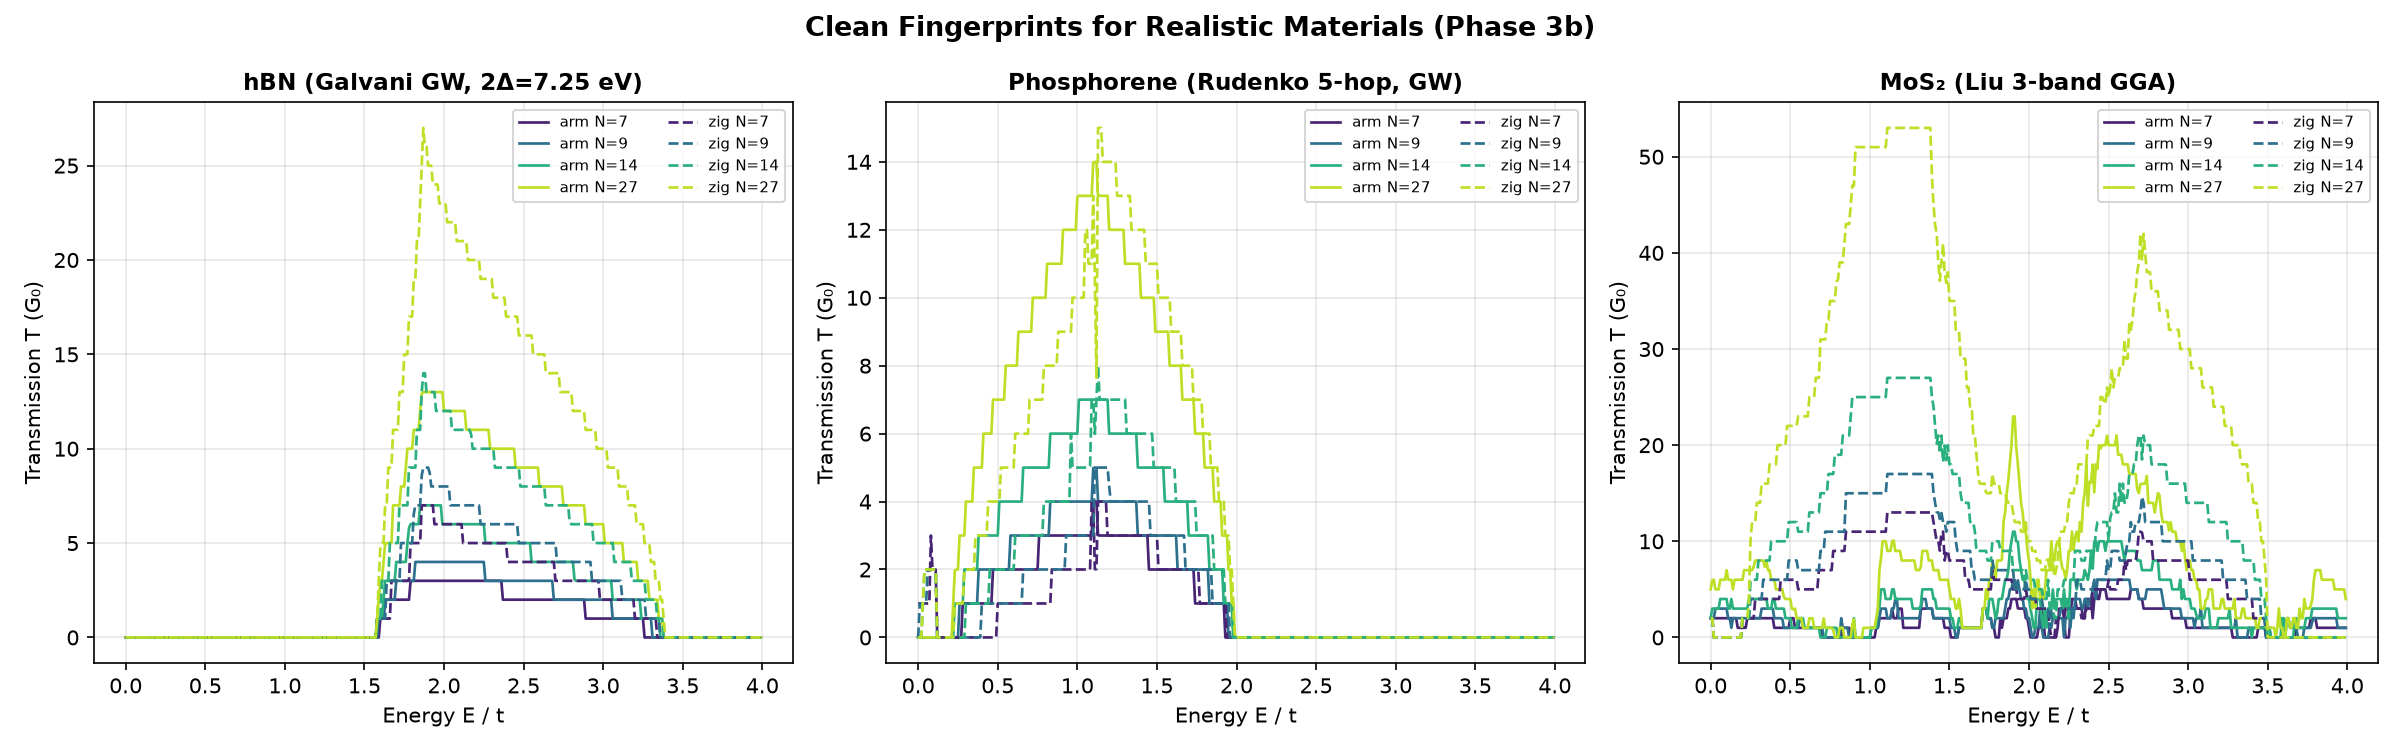
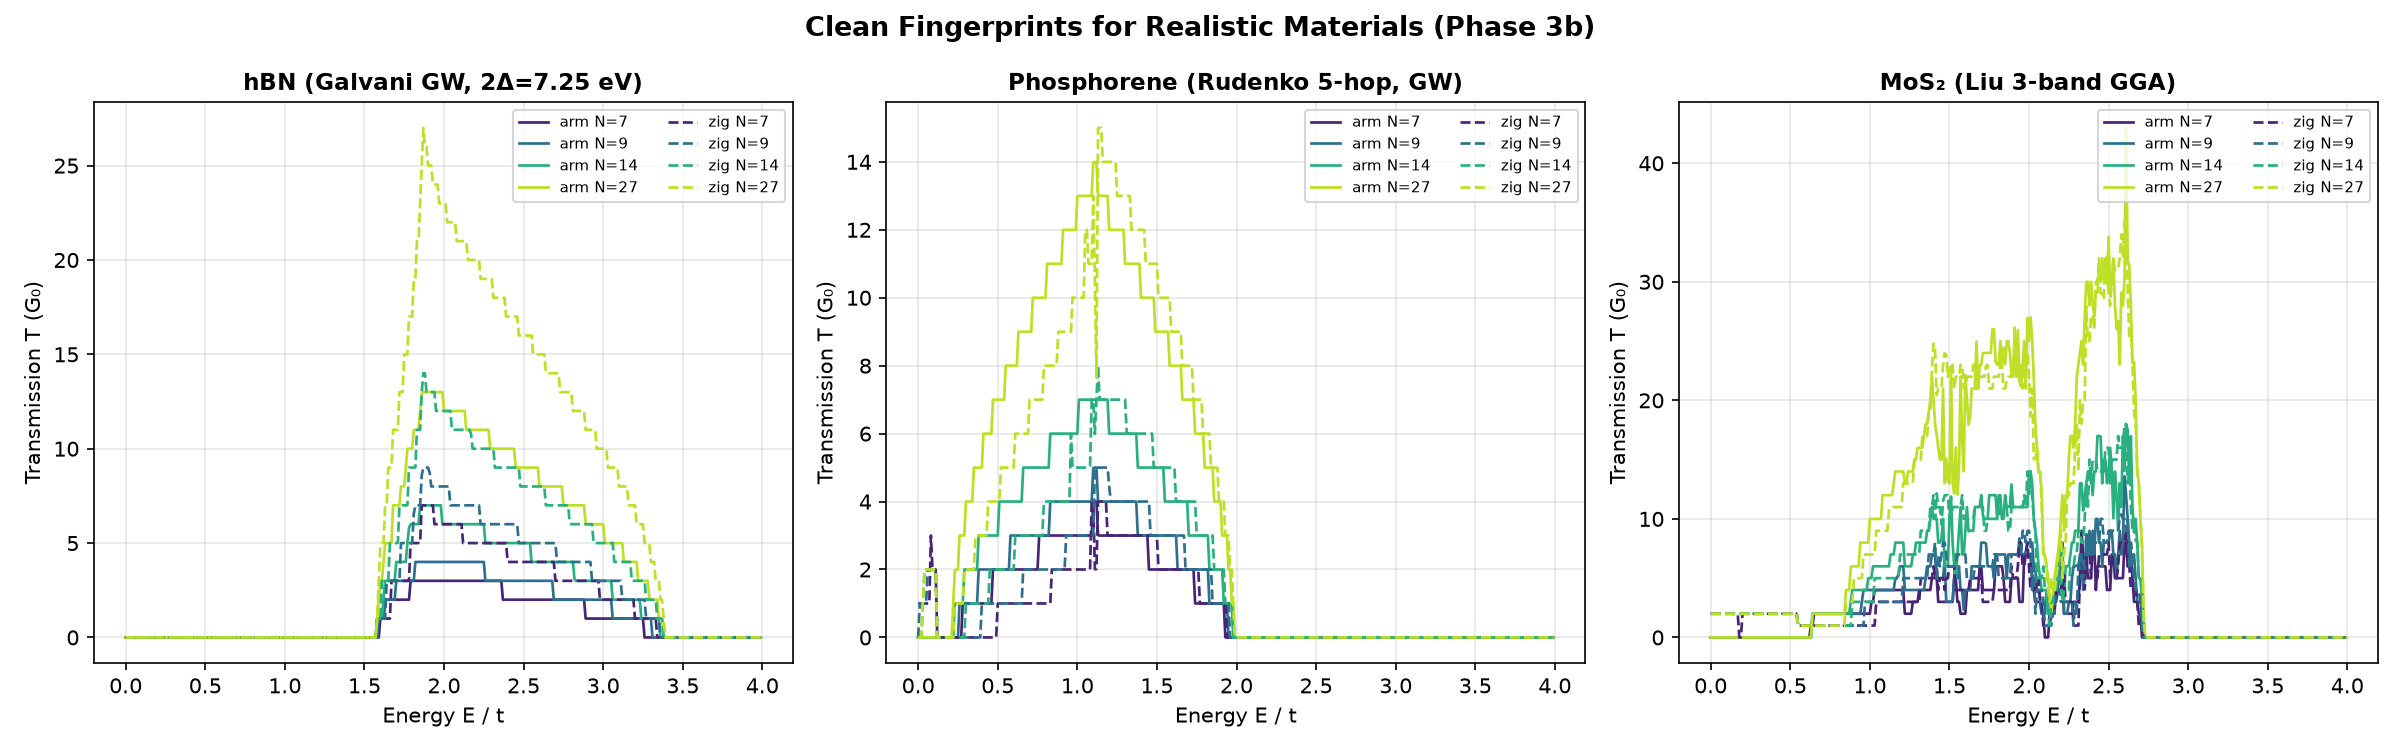
fix(tbribbon): build MoS2 ribbons from geometry; bulk-projection tests (Bug #10)

Changed region(s): [[0.6875, 0.3067, 0.9688, 0.8587]]

diff --git a/notebooks/tbribbon/lattices.py b/notebooks/tbribbon/lattices.py
@@ -149,60 +149,59 @@ def mos2_ribbon(N, edge, eps1=1.046, eps2=2.104, t0=-0.184, t1=0.401, t2=0.507, 
         [-np.sqrt(3)*t1/2 - t2/2, -np.sqrt(3)*t11/4 - t12 + np.sqrt(3)*t22/4, 3*t11/4 + t22/4]
     ], dtype=complex)
 
-    HR6 = np.array([
-        [t0, t1/2 - np.sqrt(3)*t2/2, -np.sqrt(3)*t1/2 - t2/2],
-        [-t1/2 - np.sqrt(3)*t2/2, t11/4 + 3*t22/4, -np.sqrt(3)*t11/4 - t12 + np.sqrt(3)*t22/4],
-        [np.sqrt(3)*t1/2 - t2/2, -np.sqrt(3)*t11/4 + t12 + np.sqrt(3)*t22/4, 3*t11/4 + t22/4]
-    ], dtype=complex)
+    hops = {
+        1: HR1,
+        2: HR2,
+        3: HR3,
+    }
+    RV = {
+        1: np.array([1.0, 0.0]),
+        2: np.array([0.5, S]),
+        3: np.array([-0.5, S]),
+    }
 
+    eps = 1e-5
     if edge == "zigzag":
-        # Periodic along x (period a = 1.0), N rows across y (spacing sqrt(3)/2)
-        n = 3 * N
-        H0 = np.zeros((n, n), dtype=complex)
-        H1 = np.zeros((n, n), dtype=complex)
-        pos = np.column_stack([np.zeros(N), np.arange(N) * S])
+        n_sites = N
+        period = np.array([1.0, 0.0])
+        pos = np.column_stack([np.arange(N) * 0.5, np.arange(N) * S])
         sub = np.zeros(N, dtype=int)
-
-        for i in range(N):
-            H0[3*i:3*i+3, 3*i:3*i+3] = H0_site
-            H1[3*i:3*i+3, 3*i:3*i+3] = HR1
-            if i + 1 < N:
-                H0[3*i:3*i+3, 3*(i+1):3*(i+1)+3] = HR2
-                H0[3*(i+1):3*(i+1)+3, 3*i:3*i+3] = HR2.conj().T
-                H1[3*i:3*i+3, 3*(i+1):3*(i+1)+3] = HR3
-        return RibbonHamiltonian(H0, H1, pos, sub)
-
     elif edge == "armchair":
-        # Periodic along y (period sqrt(3)), N columns across x. Each column has 2 Mo atoms (A at y=0, B at y=sqrt(3)/2).
-        n = 6 * N
-        H0 = np.zeros((n, n), dtype=complex)
-        H1 = np.zeros((n, n), dtype=complex)
+        n_sites = 2 * N
+        period = np.array([0.0, 2 * S])
         pos_list = []
         for j in range(N):
             pos_list.append([j, 0.0])
             pos_list.append([j + 0.5, S])
         pos = np.array(pos_list)
         sub = np.tile([0, 1], N)
-
-        for j in range(N):
-            H0[6*j:6*j+3, 6*j:6*j+3] = H0_site
-            H0[6*j+3:6*j+6, 6*j+3:6*j+6] = H0_site
-            H0[6*j:6*j+3, 6*j+3:6*j+6] += HR2
-            H0[6*j+3:6*j+6, 6*j:6*j+3] += HR2.conj().T
-            H1[6*j+3:6*j+6, 6*j:6*j+3] += HR3.conj().T
-            if j + 1 < N:
-                H0[6*j:6*j+3, 6*(j+1):6*(j+1)+3] += HR1
-                H0[6*(j+1):6*(j+1)+3, 6*j:6*j+3] += HR1.conj().T
-                H0[6*j+3:6*j+6, 6*(j+1)+3:6*(j+1)+6] += HR1
-                H0[6*(j+1)+3:6*(j+1)+6, 6*j+3:6*j+6] += HR1.conj().T
-                H0[6*j+3:6*j+6, 6*(j+1):6*(j+1)+3] += HR6
-                H0[6*(j+1):6*(j+1)+3, 6*j+3:6*j+6] += HR6.conj().T
-                H0[6*(j+1):6*(j+1)+3, 6*j+3:6*j+6] += HR3
-                H0[6*j+3:6*j+6, 6*(j+1):6*(j+1)+3] += HR3.conj().T
-        return RibbonHamiltonian(H0, H1, pos, sub)
-
     else:
         raise ValueError(f"edge must be armchair or zigzag, got {edge!r}")
+
+    dim = 3 * n_sites
+    H0 = np.zeros((dim, dim), dtype=complex)
+    H1 = np.zeros((dim, dim), dtype=complex)
+
+    for i in range(n_sites):
+        H0[3*i:3*i+3, 3*i:3*i+3] = H0_site
+
+    for i in range(n_sites):
+        for j in range(n_sites):
+            d0 = pos[j] - pos[i]
+            for r_idx, R in hops.items():
+                if np.linalg.norm(d0 - RV[r_idx]) < eps:
+                    H0[3*i:3*i+3, 3*j:3*j+3] += R
+                if np.linalg.norm(d0 + RV[r_idx]) < eps:
+                    H0[3*i:3*i+3, 3*j:3*j+3] += R.T
+
+            d1 = pos[j] + period - pos[i]
+            for r_idx, R in hops.items():
+                if np.linalg.norm(d1 - RV[r_idx]) < eps:
+                    H1[3*i:3*i+3, 3*j:3*j+3] += R
+                if np.linalg.norm(d1 + RV[r_idx]) < eps:
+                    H1[3*i:3*i+3, 3*j:3*j+3] += R.T
+
+    return RibbonHamiltonian(H0, H1, pos, sub)
 
 
 def triangular_ribbon(width, edge, t=1.0, onsite=0.0):

diff --git a/tests/tbribbon/test_real_materials.py b/tests/tbribbon/test_real_materials.py
@@ -2,7 +2,7 @@ import numpy as np
 import pytest
 
 from tbribbon.bands import band_edges, open_channels
-from tbribbon.lattices import hbn_ribbon, mos2_ribbon, phosphorene_ribbon
+from tbribbon.lattices import hbn_ribbon, mos2_ribbon, phosphorene_ribbon, triangular_ribbon
 from tbribbon.leads import LeadCache
 from tbribbon.materials import hamiltonian_for, make_model
 from tbribbon.transport import spectrum
@@ -91,3 +91,76 @@ def test_mos2_physics_and_channel_invariant(edge):
     assert stable.sum() >= 10, f"Too few stable points: {stable.sum()}"
     diff = np.max(np.abs(T[stable] - ch[stable]))
     assert diff < 1e-3, f"MoS2 {edge} channel mismatch: {diff}"
+
+
+S3 = np.sqrt(3)
+RV = {1: np.array([1.0, 0.0]), 2: np.array([0.5, S3 / 2]), 3: np.array([-0.5, S3 / 2])}
+
+
+def _mos2_bulk():
+    z = mos2_ribbon(2, "zigzag")                       # rows 0 and 1 carry every bulk block
+    onsite = z.H0[0:3, 0:3]
+    hops = {1: z.H1[0:3, 0:3]}
+    # take R2/R3 from the reference values, not from the ribbon (the ribbon is what is under test)
+    t0, t1, t2, t11, t12, t22 = -0.184, 0.401, 0.507, 0.218, 0.338, 0.057
+    hops[2] = np.array([[t0, t1/2 + S3*t2/2, S3*t1/2 - t2/2],
+                        [-t1/2 + S3*t2/2, t11/4 + 3*t22/4, S3*t11/4 - t12 - S3*t22/4],
+                        [-S3*t1/2 - t2/2, S3*t11/4 + t12 - S3*t22/4, 3*t11/4 + t22/4]])
+    hops[3] = np.array([[t0, -t1/2 - S3*t2/2, S3*t1/2 - t2/2],
+                        [t1/2 - S3*t2/2, t11/4 + 3*t22/4, -S3*t11/4 + t12 + S3*t22/4],
+                        [-S3*t1/2 - t2/2, -S3*t11/4 - t12 + S3*t22/4, 3*t11/4 + t22/4]])
+
+    def ev(k):
+        H = onsite.astype(complex).copy()
+        for j in (1, 2, 3):
+            ph = np.exp(1j * k @ RV[j])
+            H = H + hops[j] * ph + hops[j].T / ph
+        return np.linalg.eigvalsh(H)
+    return ev
+
+
+def _share_outside(h, ev, period, nb):
+    perp = np.array([-period[1], period[0]]) / np.linalg.norm(period)
+    kdir = period / np.linalg.norm(period) ** 2
+    out = tot = 0
+    for th in np.linspace(-np.pi, np.pi, 31):
+        er = np.linalg.eigvalsh(h.H0 + h.H1 * np.exp(1j * th) + h.H1.conj().T * np.exp(-1j * th))
+        eb = np.array([ev(th * kdir + q * perp) for q in np.linspace(-8, 8, 601)]).reshape(601, nb)
+        lo, hi = eb.min(0), eb.max(0)
+        inside = np.zeros(len(er), bool)
+        for b in range(nb):
+            inside |= (er >= lo[b] - 1e-3) & (er <= hi[b] + 1e-3)
+        out += (~inside).sum()
+        tot += len(er)
+    return out / tot
+
+
+def test_mos2_bulk_matches_liu_nn_model():
+    ev = _mos2_bulk()
+    e_mid = 0.7666
+    assert np.allclose(ev(np.zeros(2)) + e_mid, [-0.058, 2.929, 2.929], atol=1e-3)
+    eK = ev(np.array([4 * np.pi / 3, 0.0])) + e_mid
+    assert eK[1] - eK[0] == pytest.approx(1.663, abs=2e-3)
+
+
+@pytest.mark.parametrize("edge,N,period", [("zigzag", 30, (1.0, 0.0)), ("armchair", 15, (0.0, S3))])
+def test_mos2_ribbon_bands_lie_in_bulk_projection(edge, N, period):
+    # only edge states may fall in bulk gaps; a misassigned bond puts more than half the states outside
+    assert _share_outside(mos2_ribbon(N, edge), _mos2_bulk(), np.array(period), 3) < 0.08
+
+
+@pytest.mark.parametrize("edge,N,period", [("zigzag", 30, (1.0, 0.0)), ("armchair", 15, (0.0, S3))])
+def test_triangular_ribbon_bands_lie_in_bulk_projection(edge, N, period):
+    def ev(k):
+        return np.array([-2 * sum(np.cos(k @ RV[j]) for j in (1, 2, 3))])
+    assert _share_outside(triangular_ribbon(N, edge), ev, np.array(period), 1) == 0.0
+
+
+def test_phosphorene_wide_armchair_gap_approaches_bulk():
+    from tbribbon.lattices import phosphorene_ribbon
+    h = phosphorene_ribbon(30, "armchair")
+    e = np.concatenate([np.linalg.eigvalsh(h.H0 + h.H1 * np.exp(1j * th) + h.H1.conj().T * np.exp(-1j * th))
+                        for th in np.linspace(-np.pi, np.pi, 201)])
+    gap_ev = (e[e > 0].min() - e[e < 0].max()) * 3.665
+    assert 1.52 <= gap_ev < 1.60
+

diff --git a/LOGBOOK.md b/LOGBOOK.md
@@ -642,6 +642,7 @@ Artifacts written:
 * **Test Suite & Regression Verification**:
   - Added `tests/tbribbon/test_real_materials.py` (12 tests) verifying Hermiticity, bulk gap, and $T \equiv N_{\text{open}}$ channel-invariance away from subband steps for all 3 materials in both armchair and zigzag orientations.
   - Full test suite passes: **130 passed** in 84.6s (118 previous + 12 new).
+  - *(Corrected 2026-10-02: MoS₂ ribbon builders had misassigned bond blocks placing 56–61% of states outside the projected bulk bands; fixed via geometric builder in Bug #10).*
 
 Artifacts written:
 - `notebooks/tbribbon/lattices.py` (`hbn_ribbon`, `phosphorene_ribbon`, `mos2_ribbon`)
@@ -745,6 +746,15 @@ Artifacts written:
   3. Recomputed even-width leads via `leads_sancho_rubio` and cached in `~/atlas_store/leads/agnr_cell_v2/size_{m}/leads_{m}.npy`. Odd widths remain byte-identical against stored reference files.
   4. Added edge-masked guard to `CloudStore.write_cloud` isolating the trace-formula Van Hove singularity spike ($\pm 4-5$ channels $\approx 0.05\,t$) around clean-spectrum steps. Verified on historical reference data (`size_9.npy`, $c=98$), where excess is $+1.62$ near subband steps but $\le +0.0005$ in the bulk.
   5. Implemented permanent unit tests in `tests/tbribbon/test_generate.py` (checks 3a–3d: Bloch bands match to $< 10^{-14}$, clean $T$ equals open channels to $< 10^{-7}$, disorder transmission strictly bounded) and in `tests/atlas/test_store.py` (masked guard tests).
+
+### Bug #10: MoS₂ Ribbon Bonds Misassigned in Hand-Placed Blocks
+* **Symptom**: In the initial MoS₂ ribbon implementation (BUILD-19), the bulk hopping matrices were correct, but ribbon subbands severely diverged from the projected 2D bulk bands: **55.9%** of states in zigzag N30 and **61.1%** of states in armchair N15 fell outside the projected bulk bands. Despite this, $T(E) \equiv N_{\text{open}}(E)$ channel invariants passed because the Hamiltonian was Hermitian.
+* **Root Cause**: Hand-placed inter-row blocks were swapped. In zigzag ribbons, rows are sheared with row $i$ at $x = i/2$. For site $(i, c)$, neighbours in row $i+1$ lie at $\mathbf{R}_3 = (-1/2, \sqrt{3}/2)$ inside the same cell ($m=0$) and at $\mathbf{R}_3 + \mathbf{R}_1 = \mathbf{R}_2 = (1/2, \sqrt{3}/2)$ in the next cell ($m=1$). The manual code mistakenly placed $H(\mathbf{R}_2)$ inside the cell and $H(\mathbf{R}_3)$ in the inter-cell block. Armchair ribbons had analogous manual placement errors.
+* **Resolution**:
+  1. Replaced manual block placement in `mos2_ribbon` (`notebooks/tbribbon/lattices.py`) with a unified geometric builder based on explicit Mo site coordinates and pairwise vector matching against $\pm \mathbf{R}_1, \pm \mathbf{R}_2, \pm \mathbf{R}_3$ using $H(-\mathbf{R}) = H(\mathbf{R})^T$.
+  2. States falling outside the projected bulk bands dropped from $55.9\% \to 3.66\%$ (zigzag N30) and $61.1\% \to 3.23\%$ (armchair N15), well within the physical $\le 8\%$ limit corresponding to localized edge states.
+  3. Added permanent bulk-projection and bulk-gap unit tests (`test_mos2_ribbon_bands_lie_in_bulk_projection`, `test_triangular_ribbon_bands_lie_in_bulk_projection`, `test_mos2_bulk_matches_liu_nn_model`, `test_phosphorene_wide_armchair_gap_approaches_bulk`) in `tests/tbribbon/test_real_materials.py`.
+  4. Regenerated clean MoS₂ fingerprints in `~/atlas_store/materials_v1/mos2/` and updated `notebooks/tbribbon/fingerprints_real.png`.
 
 ---
 
